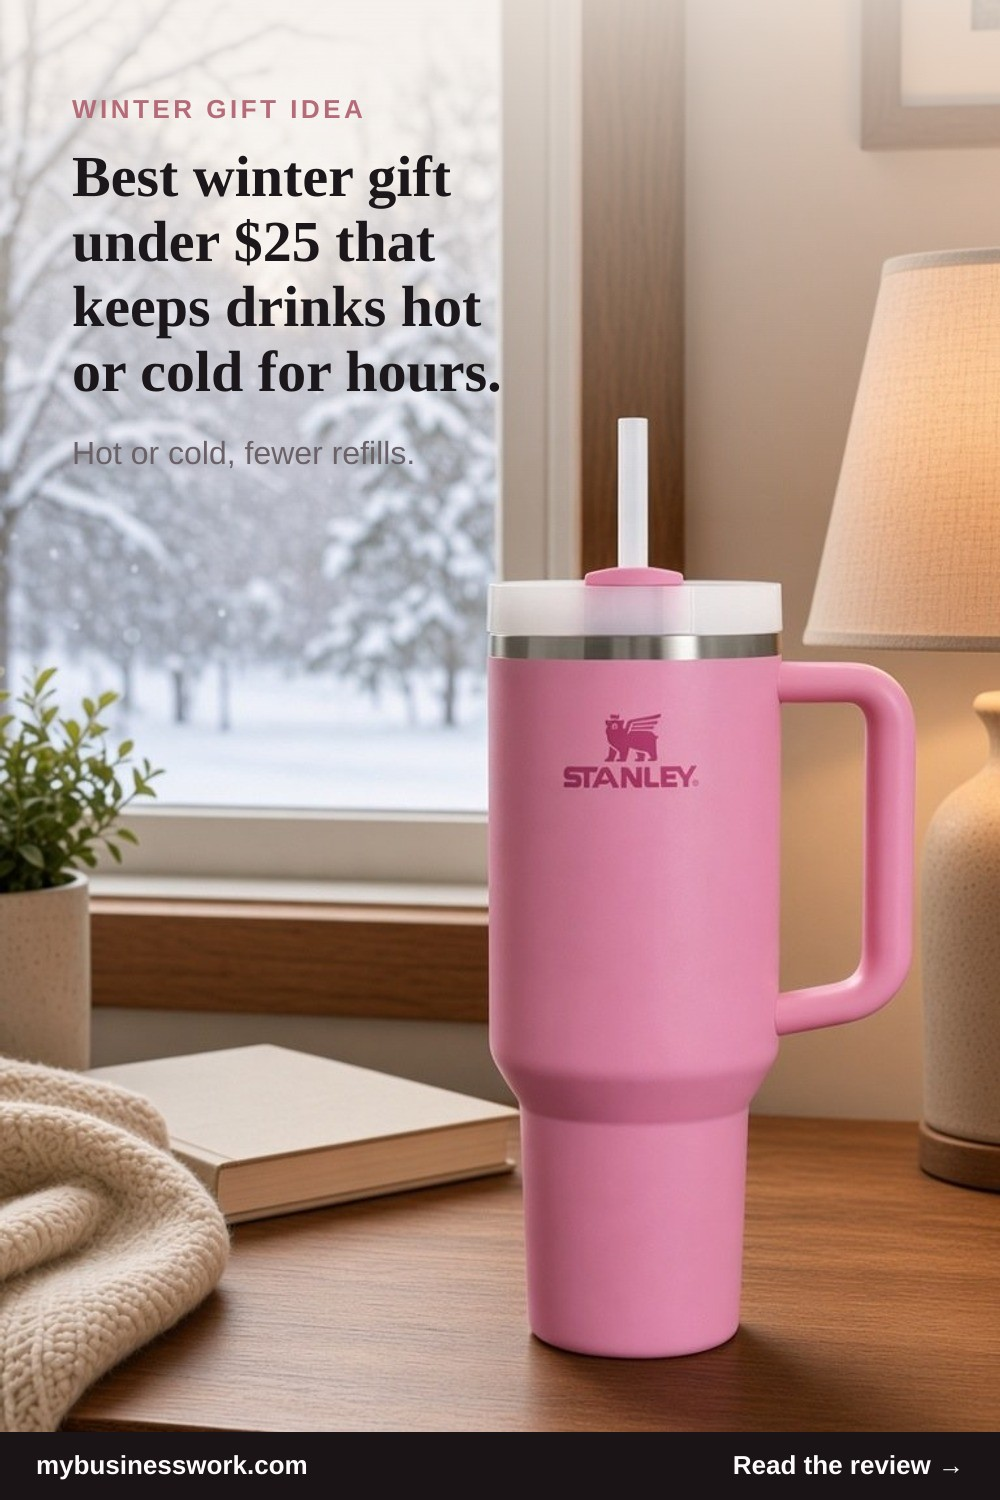
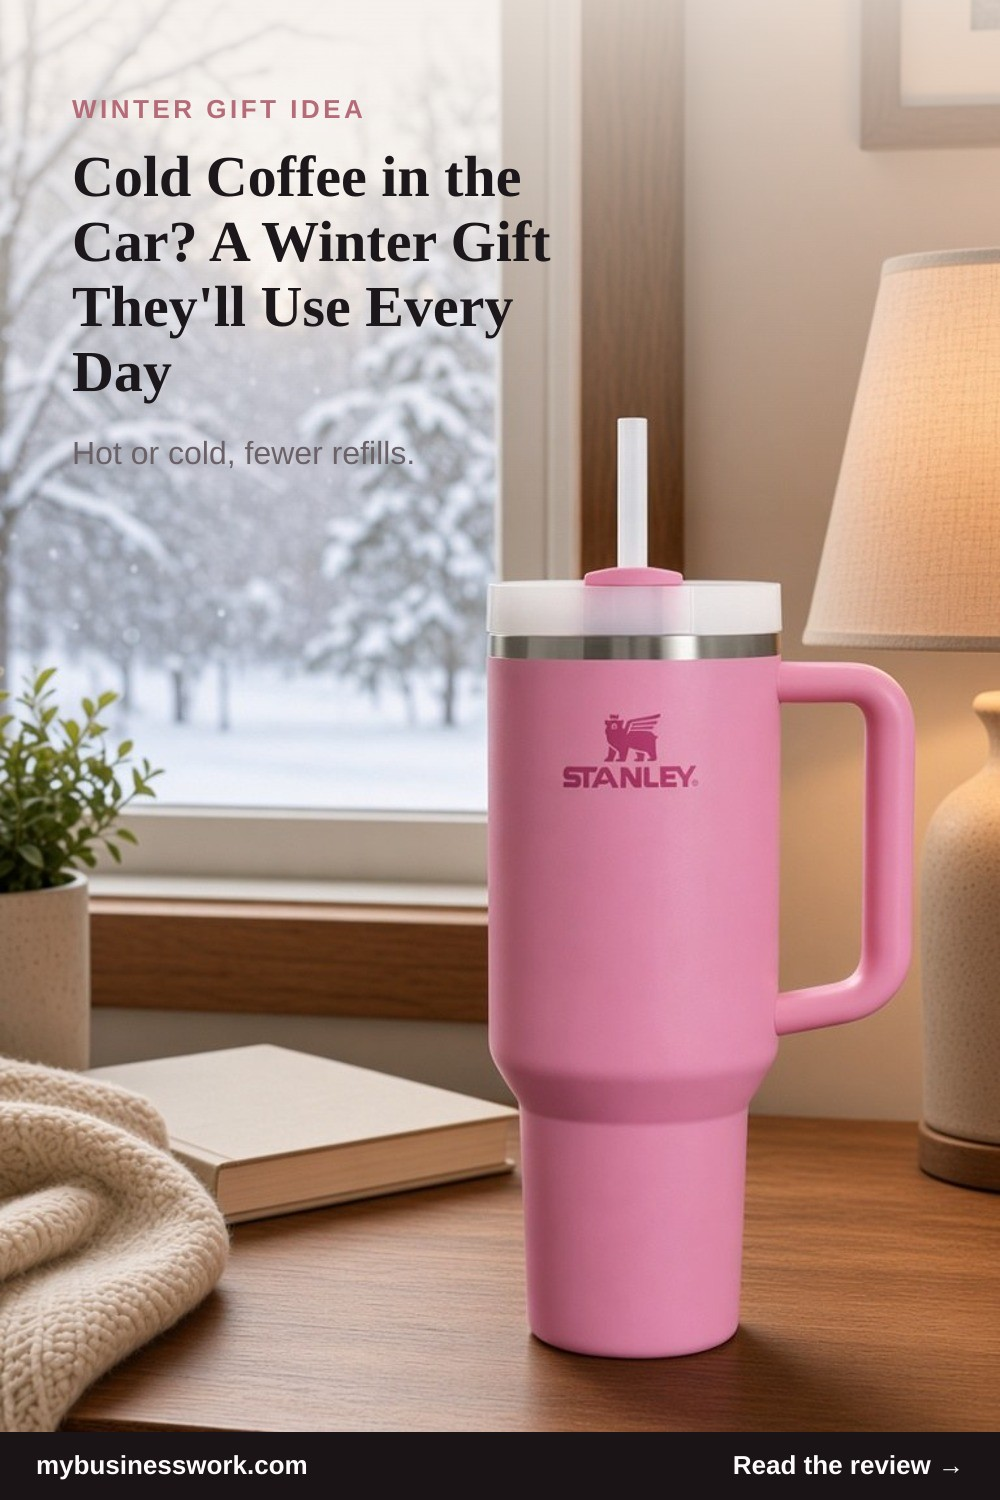
Separate buy and skip panels and ease reading
Give the two choices their own green and red panels, drop the hands-on disclaimer lines, and set review text to 17–18px with a 70-character line.

Changed region(s): [[0.062, 0.092, 0.558, 0.276]]

diff --git a/src/content/reviews/stanley-quencher-h2-0-review-gift-ideas-under-25-b0crmp3rqt.md b/src/content/reviews/stanley-quencher-h2-0-review-gift-ideas-under-25-b0crmp3rqt.md
@@ -1,6 +1,6 @@
 ---
-title: "Stanley Quencher H2.0 Review: Gift Ideas Under $25"
-description: "A 40 oz Peony Stanley cup for hot or cold drinks. See who should buy it, who should skip it, and what buyers mention."
+title: "Stanley Quencher H2.0 Review: A Winter Gift They'll Use Every Day"
+description: "A 40 oz Peony Stanley cup for hot or cold drinks. A winter gift for the car, the desk, and the couch."
 asin: "B0CRMP3RQT"
 brand: "STANLEY"
 category: "Kitchen"
@@ -8,7 +8,7 @@ affiliateUrl: "https://www.amazon.com/dp/B0CRMP3RQT?tag=dailyvirald06-20"
 ownImage: "/images/reviews/b0crmp3rqt/own.jpg"
 imageCaption: "Peony Stanley tumbler on a wood desk, snow outside the window, a warm lamp beside it."
 images: [{"src":"/images/reviews/b0crmp3rqt/car-cupholder.jpg","caption":"Peony Stanley tumbler in a car cup holder, snow on the trees outside.","alt":"Peony Stanley tumbler in a car cup holder, snow on the trees outside."},{"src":"/images/reviews/b0crmp3rqt/couch-warm.jpg","caption":"Peony Stanley tumbler on a side table beside a couch and a knit blanket.","alt":"Peony Stanley tumbler on a side table beside a couch and a knit blanket."}]
-hook: "Cold Coffee in the Car? A Winter Gift Under $25"
+hook: "Cold Coffee in the Car? A Winter Gift They'll Use Every Day"
 eyebrow: "Winter gift idea"
 subline: "Hot or cold, fewer refills."
 hookSupport: "You want one cup for the kitchen, the car, and the couch. This 40 oz tumbler is made to keep drinks hot or cold."
@@ -30,7 +30,7 @@ You pour hot coffee. You get in the car. It is lukewarm before you sit down.
 
 You want one cup for the kitchen, the car, and the couch. The <a href="https://www.amazon.com/dp/B0CRMP3RQT?tag=dailyvirald06-20" rel="nofollow sponsored noopener" target="_blank">Stanley Quencher H2.0</a> is a 40 oz tumbler in Peony pink. It has a handle, a straw, and a lid you can turn.
 
-The listing says the double walls keep drinks cold, iced, or hot for hours. This page did not time a drink. Check today's price before you call it a gift under $25.
+The listing says the double walls keep drinks cold, iced, or hot for hours. Check today's price on Amazon before you buy.
 
 ## What it does
 
@@ -62,9 +62,8 @@ It is a simple winter gift. A birthday, a housewarming, a teacher thank-you, or 
 
 ## Honest limits
 
-* "Under $25" only helps if today's price is still in that range.
 * Buyers on the listing often say it leaks when the cup tips. A closed slider is not a sealed bottle.
-* Buyers also mention a broken handle and a scratched matte coat. This page did not test those reports.
+* Buyers also mention a broken handle and a scratched matte coat.
 * Dishwasher and hand wash are both written on the same page. They disagree.
 * The two size blocks do not match.
 * Other colors and the 64 oz are different products.
@@ -72,13 +71,13 @@ It is a simple winter gift. A birthday, a housewarming, a teacher thank-you, or 
 
 ## FAQ
 
-### Is the Stanley Quencher H2.0 a good winter gift under $25?
+### Is the Stanley Quencher H2.0 a good everyday gift?
 
-It is a useful gift when you want one handled cup and no size to guess. Under $25 depends on today's price. Open the <a href="https://www.amazon.com/dp/B0CRMP3RQT?tag=dailyvirald06-20" rel="nofollow sponsored noopener" target="_blank">Stanley Quencher H2.0</a> page before you buy.
+It is a useful gift when you want one handled cup and no size to guess. Check today's price before you buy. Open the <a href="https://www.amazon.com/dp/B0CRMP3RQT?tag=dailyvirald06-20" rel="nofollow sponsored noopener" target="_blank">Stanley Quencher H2.0</a> page and see the live price.
 
 ### How long does it keep drinks cold or hot?
 
-The diagram says 11 hours cold and 48 hours iced. The bullets say hot for hours, with no hot-hour count. Those are Stanley's numbers. This page did not run a heat test.
+The diagram says 11 hours cold and 48 hours iced. The bullets say hot for hours, with no hot-hour count. Those are Stanley's numbers.
 
 ### Will the 40 oz Peony fit a car cup holder?
 

diff --git a/src/content/reviews/bedsure-heated-blanket-throw-review-b0bzr6ybhk.md b/src/content/reviews/bedsure-heated-blanket-throw-review-b0bzr6ybhk.md
@@ -26,13 +26,13 @@ createdAt: 2026-11-11T22:35:00+08:00
 
 The couch is cold. Heating the whole house feels like too much.
 
-The <a href="https://www.amazon.com/dp/B0BZR6YBHK?tag=dailyvirald06-20" rel="nofollow sponsored noopener" target="_blank">Bedsure heated throw</a> is a 50 by 60 inch blanket. This review is the grey one. It has a soft side and a fuzzy side. You plug it in for heat. This page did not sleep under it.
+The <a href="https://www.amazon.com/dp/B0BZR6YBHK?tag=dailyvirald06-20" rel="nofollow sponsored noopener" target="_blank">Bedsure heated throw</a> is a 50 by 60 inch blanket. This review is the grey one. It has a soft side and a fuzzy side. You plug it in for heat.
 
 ## What it does
 
 * **Heat on you.** Six levels. A controller. Timers at 1, 2, 4, 6, 8, or 10 hours. Bedsure says longer heating wires spread the warmth.
 
-* **Preheat.** The listing says you can preheat, then drop to a level you can stay with. Exact minutes depend on the room. This page did not time it.
+* **Preheat.** The listing says you can preheat, then drop to a level you can stay with. Exact minutes depend on the room.
 
 * **Two fabrics.** A flannel side and a sherpa side. Sherpa is the fuzzy side. GSM on the listing is just fabric weight. You can also use it unplugged as a normal throw.
 
@@ -62,7 +62,6 @@ Skip it if you need one blanket to cover a whole mattress. This is a throw.
 * 50 by 60 inches covers a person, not a bed.
 * You need an outlet and a place for the controller.
 * The 8-hour shutoff will stop a very long night. You restart it if you want more.
-* This page did not measure heat-up time.
 
 ## FAQ
 
@@ -72,7 +71,7 @@ The listing says machine care is fine. Disconnect the controller first. Read the
 
 ### How fast does it preheat?
 
-Bedsure says the preheat gets it toasty quickly. The room temperature changes that. This page did not time it.
+Bedsure says the preheat gets it toasty quickly. The room temperature changes that.
 
 ### Can I fall asleep with it on?
 

diff --git a/src/content/reviews/shark-flexstyle-next-gen-ioncurl-review-b0hcf2g9vq.md b/src/content/reviews/shark-flexstyle-next-gen-ioncurl-review-b0hcf2g9vq.md
@@ -26,13 +26,13 @@ createdAt: 2026-11-11T22:31:00+08:00
 
 Wet hair. A dryer in one hand. A curler waiting. The morning is already short.
 
-The <a href="https://www.amazon.com/dp/B0HCF2G9VQ?tag=dailyvirald06-20" rel="nofollow sponsored noopener" target="_blank">Shark FlexStyle IonCurl</a> is a dryer and a multi-styler. Shark says the airflow dries and curls without extreme heat. This model is the HD840. This page did not style hair with it.
+The <a href="https://www.amazon.com/dp/B0HCF2G9VQ?tag=dailyvirald06-20" rel="nofollow sponsored noopener" target="_blank">Shark FlexStyle IonCurl</a> is a dryer and a multi-styler. Shark says the airflow dries and curls without extreme heat. This model is the HD840.
 
 ## What it does
 
 * **Dry and style.** One base, several heads. Dry, smooth, add volume, or curl. Shark calls the curl wrap Coanda. That means the air pulls hair around the barrel.
 
-* **Ions.** Shark says ions help hair dry faster and look smoother, with less heat damage. That is their claim. This page did not test damage.
+* **Ions.** Shark says ions help hair dry faster and look smoother, with less heat damage. That is their claim.
 
 * **Buttons.** Double-tap AirSet to pause the air. Hold it for a cool shot. Scalp Shield drops to a cooler setting. Shark says that protects the scalp from high heat.
 
@@ -57,7 +57,7 @@ Skip it if a basic dryer is all you use. The extra heads will sit in a drawer.
 * You need practice. The first curls may look uneven.
 * High speed is noisy.
 * It is a full system, not one basic dryer. Check today's price.
-* "No heat damage" is Shark's line, not a result from this page.
+* "No heat damage" is Shark's line
 
 ## FAQ
 

diff --git a/src/content/reviews/amazon-kids-kindle-colorsoft-16gb-review-b0gv5rhy69.md b/src/content/reviews/amazon-kids-kindle-colorsoft-16gb-review-b0gv5rhy69.md
@@ -35,7 +35,7 @@ createdAt: 2026-11-11T20:48:07+08:00
 
 The book bag is heavy. Outside, a bright tablet is hard to read. And the games are right there.
 
-The <a href="https://www.amazon.com/dp/B0GV5RHY69?tag=dailyvirald06-20" rel="nofollow sponsored noopener" target="_blank">Amazon Kids Kindle Colorsoft</a> is a 7-inch color reader for ages 6 to 12. The bundle includes a cover and one year of Kids+. This page did not hand it to a child.
+The <a href="https://www.amazon.com/dp/B0GV5RHY69?tag=dailyvirald06-20" rel="nofollow sponsored noopener" target="_blank">Amazon Kids Kindle Colorsoft</a> is a 7-inch color reader for ages 6 to 12. The bundle includes a cover and one year of Kids+.
 
 ## What it does
 
@@ -47,7 +47,7 @@ The <a href="https://www.amazon.com/dp/B0GV5RHY69?tag=dailyvirald06-20" rel="nof
 
 * **Light.** You can shift the front light from white to warm amber.
 
-* **Water.** Amazon says it is waterproof for the pool, beach, or bath. Follow their care notes. This page did not dunk it.
+* **Water.** Amazon says it is waterproof for the pool, beach, or bath. Follow their care notes.
 
 * **Battery.** Amazon says up to 8 weeks. That is their claim, and it depends on use. 16GB holds a lot of text. Color comics take more space than plain novels.
 
@@ -71,7 +71,7 @@ Skip it if your child wants a tablet full of apps. Skip it if you will not watch
 * Kids+ renews unless you cancel. Know the date.
 * 16GB goes faster if you download lots of color comics.
 * The age range on the listing is 6 to 12.
-* Battery weeks and glare claims are Amazon's, not a test from this page.
+* Battery weeks and glare claims are Amazon's
 
 ## FAQ
 

diff --git a/src/content/reviews/hellobaby-hb6550-no-wifi-baby-monitor-review-b09gm8jzm9.md b/src/content/reviews/hellobaby-hb6550-no-wifi-baby-monitor-review-b09gm8jzm9.md
@@ -35,7 +35,7 @@ createdAt: 2026-11-11T13:09:13+08:00
 
 Nap time. You do not want to load an app or reboot the router.
 
-The <a href="https://www.amazon.com/dp/B09GM8JZM9?tag=dailyvirald06-20" rel="nofollow sponsored noopener" target="_blank">HelloBaby HB6550</a> is a video baby monitor with no Wi-Fi. A 5-inch parent screen talks straight to the camera. This page did not set one up in a nursery.
+The <a href="https://www.amazon.com/dp/B09GM8JZM9?tag=dailyvirald06-20" rel="nofollow sponsored noopener" target="_blank">HelloBaby HB6550</a> is a video baby monitor with no Wi-Fi. A 5-inch parent screen talks straight to the camera.
 
 ## What it does
 
@@ -45,7 +45,7 @@ The <a href="https://www.amazon.com/dp/B09GM8JZM9?tag=dailyvirald06-20" rel="nof
 
 * **Night and talk.** Infrared night vision. Two-way audio. A room-temperature alert. The listing also includes sound-level lights.
 
-* **Range.** About 1,000 feet in open space, per the listing. Walls cut that down. This page did not measure it.
+* **Range.** About 1,000 feet in open space, per the listing. Walls cut that down.
 
 * **Power.** The camera stays plugged in. The parent unit has a battery so you can carry the screen. You can add cameras later, up to four, per the listing.
 
@@ -70,7 +70,6 @@ Skip it if you need to check the baby from the office.
 * No phone viewing when you leave.
 * Walls reduce the 1,000-foot claim.
 * The camera needs constant power.
-* This page did not test range or night video.
 
 ## FAQ
 

diff --git a/src/content/reviews/dreo-space-heater-review-gift-ideas-under-50-b0c6fckqml.md b/src/content/reviews/dreo-space-heater-review-gift-ideas-under-50-b0c6fckqml.md
@@ -26,7 +26,7 @@ createdAt: 2026-11-18T13:30:00+08:00
 
 The house is warm. Your bedroom is not. You do not want to heat every room.
 
-The <a href="https://www.amazon.com/dp/B0C6FCKQML?tag=dailyvirald06-20" rel="nofollow sponsored noopener" target="_blank">Dreo space heater</a> in this review is the Gold HSH006. It is a corded 1500W ceramic tower. Dreo lists it for about 200 square feet. This page did not run it in a room.
+The <a href="https://www.amazon.com/dp/B0C6FCKQML?tag=dailyvirald06-20" rel="nofollow sponsored noopener" target="_blank">Dreo space heater</a> in this review is the Gold HSH006. It is a corded 1500W ceramic tower. Dreo lists it for about 200 square feet.
 
 ## What it does
 
@@ -36,7 +36,7 @@ The <a href="https://www.amazon.com/dp/B0C6FCKQML?tag=dailyvirald06-20" rel="nof
 
 * **Modes on the listing.** Power heat, ECO, and Fan Only. There is also a 12-hour timer, mute, a child lock, and a memory function. If a badge says "5 Mode," read the live page so you know what those modes are.
 
-* **Quiet, per Dreo.** The listing says 34 dB. That is their number for a bedroom or a desk. This page did not measure it.
+* **Quiet, per Dreo.** The listing says 34 dB. That is their number for a bedroom or a desk.
 
 * **Safety lines.** Tip-over shutoff, overheat protection, a safety plug, and flame-retardant material. ETL certified. Indoor only. Do not use an extension cord or a power strip. Do not set it on a bed or a soft chair where the vents get blocked.
 

diff --git a/src/content/reviews/bedsure-satin-pillowcases-queen-set-review-b0bsnhvw5q.md b/src/content/reviews/bedsure-satin-pillowcases-queen-set-review-b0bsnhvw5q.md
@@ -26,11 +26,11 @@ createdAt: "2026-11-17T08:30:00+08:00"
 
 You wake up. Your hair is a cloud. Your cheek has a crease from the pillow.
 
-The <a href="https://www.amazon.com/dp/B0BSNHVW5Q?tag=dailyvirald06-20" rel="nofollow sponsored noopener" target="_blank">Bedsure satin pillowcases</a> are a queen set of two. They are 100% polyester with a smooth, silk-like face. They are not silk. This page did not sleep on them.
+The <a href="https://www.amazon.com/dp/B0BSNHVW5Q?tag=dailyvirald06-20" rel="nofollow sponsored noopener" target="_blank">Bedsure satin pillowcases</a> are a queen set of two. They are 100% polyester with a smooth, silk-like face. They are not silk.
 
 ## What it does
 
-* **Less rub.** The listing says the smooth face cuts friction. That can help frizz and breakage on curly or delicate hair. Results vary. This page did not measure hair.
+* **Less rub.** The listing says the smooth face cuts friction. That can help frizz and breakage on curly or delicate hair. Results vary.
 
 * **Skin.** Bedsure says the smooth surface lowers the chance of sleep marks. It is not a wrinkle treatment.
 
@@ -61,7 +61,7 @@ Skip it if you want real silk. Skip it if you thought pillows were in the box.
 * Polyester can sleep warmer or cooler than you like.
 * Gentle washing only.
 * Cases only. No pillow inserts.
-* Hair and skin lines are the brand's claim, not a test from this page.
+* Hair and skin lines are the brand's claim
 
 ## FAQ
 

diff --git a/src/content/reviews/tiptop-home-handheld-vacuum-sealer-review-b0hf4xhl1r.md b/src/content/reviews/tiptop-home-handheld-vacuum-sealer-review-b0hf4xhl1r.md
@@ -35,7 +35,7 @@ createdAt: 2026-11-11T11:22:50+08:00
 
 Monday's dinner is still in the fridge on Thursday. The bag is puffy. The smell is not great.
 
-The <a href="https://www.amazon.com/dp/B0HF4XHL1R?tag=dailyvirald06-20" rel="nofollow sponsored noopener" target="_blank">Tiptop Home handheld vacuum sealer</a> is a small cordless tool. The listing says it pulls at 60 kPa and seals in about 5 seconds. kPa is just a measure of suction. This page did not seal a bag with it.
+The <a href="https://www.amazon.com/dp/B0HF4XHL1R?tag=dailyvirald06-20" rel="nofollow sponsored noopener" target="_blank">Tiptop Home handheld vacuum sealer</a> is a small cordless tool. The listing says it pulls at 60 kPa and seals in about 5 seconds. kPa is just a measure of suction.
 
 ## What it does
 
@@ -68,13 +68,13 @@ Skip it if you want to seal grocery zip bags. This tool wants its own bags.
 * You must charge it or it is a brick.
 * The bags need a real wash between uses.
 * It is for valve bags, not every bag in the drawer.
-* 60 kPa and the 5-second line are Tiptop's claims. This page did not measure them.
+* 60 kPa and the 5-second line are Tiptop's claims.
 
 ## FAQ
 
 ### What does 60 kPa mean?
 
-It is a suction number. Higher means a stronger pull. Tiptop says this tool hits 60 kPa. This page did not test the pull.
+It is a suction number. Higher means a stronger pull. Tiptop says this tool hits 60 kPa.
 
 ### Can I use any plastic bag?
 

diff --git a/src/content/reviews/ninja-blast-portable-blender-review-quick-smoothies-anywhere-b0c2ff4jd1.md b/src/content/reviews/ninja-blast-portable-blender-review-quick-smoothies-anywhere-b0c2ff4jd1.md
@@ -26,7 +26,7 @@ createdAt: "2026-11-16T11:00:00+08:00"
 
 You are late. Breakfast is still fruit in the fridge. A big blender means a cord, a pour, and a wash.
 
-The <a href="https://www.amazon.com/dp/B0C2FF4JD1?tag=dailyvirald06-20" rel="nofollow sponsored noopener" target="_blank">Ninja Blast</a> is a cordless blender with an 18 oz cup. You blend in the cup, then drink from it. This page covers the black BC151BK. This page did not blend a drink in it.
+The <a href="https://www.amazon.com/dp/B0C2FF4JD1?tag=dailyvirald06-20" rel="nofollow sponsored noopener" target="_blank">Ninja Blast</a> is a cordless blender with an 18 oz cup. You blend in the cup, then drink from it. This page covers the black BC151BK.
 
 ## What it does
 
@@ -60,14 +60,14 @@ It is one serving. It is not a pitcher for a family breakfast.
 
 * 18 oz is one person, not a crowd.
 * You have to keep the battery charged.
-* Very thick mixes need enough liquid. This page did not test that limit.
+* Very thick mixes need enough liquid.
 * Ninja's "perfectly smooth" line is their claim.
 
 ## FAQ
 
 ### Can it crush ice?
 
-Ninja says the steel blades and ribbed cup can blast ice and frozen fruit. Use enough liquid. This page did not run that test.
+Ninja says the steel blades and ribbed cup can blast ice and frozen fruit. Use enough liquid.
 
 ### How do I clean it?
 

diff --git a/src/content/reviews/ninja-air-fryer-pro-5-qt-review-save-time-on-meals-b0h87wv6n4.md b/src/content/reviews/ninja-air-fryer-pro-5-qt-review-save-time-on-meals-b0h87wv6n4.md
@@ -28,7 +28,7 @@ You get home late. The oven is cold. Nobody wants to stand over a pan.
 
 The <a href="https://www.amazon.com/dp/B0H87WV6N4?tag=dailyvirald06-20" rel="nofollow sponsored noopener" target="_blank">Ninja Air Fryer Pro 5 Qt</a> blows 400°F air around the food. Ninja says that makes food hot and crispy with little or no oil. This color is Bone and Champagne. It is an Amazon exclusive finish.
 
-It will not cook every dish. It is built for frozen food, chicken, vegetables, and quick sides. This page did not cook in it.
+It will not cook every dish. It is built for frozen food, chicken, vegetables, and quick sides.
 
 ## What it does
 
@@ -38,7 +38,7 @@ It will not cook every dish. It is built for frozen food, chicken, vegetables, a
 
 * **A 5-quart basket.** Ninja says it holds up to 4 pounds of fries or 5 pounds of chicken wings. There is a crisper plate inside.
 
-* **Less oil.** Ninja says you can use up to 75% less fat than deep-fried fries. They tested that against hand-cut fries fried in oil. It is their test, not ours.
+* **Less oil.** Ninja says you can use up to 75% less fat than deep-fried fries. They tested that against hand-cut fries fried in oil.
 
 * **A smaller footprint.** Ninja says this shape saves counter space without shrinking the basket. Still measure your counter.
 

diff --git a/src/content/reviews/levoit-top-fill-humidifier-review-easy-bedroom-care-b0c2c9nhzw.md b/src/content/reviews/levoit-top-fill-humidifier-review-easy-bedroom-care-b0c2c9nhzw.md
@@ -26,7 +26,7 @@ createdAt: 2026-11-11T22:33:00+08:00
 
 The old tank is heavy. You flip it. Water hits the nightstand.
 
-The <a href="https://www.amazon.com/dp/B0C2C9NHZW?tag=dailyvirald06-20" rel="nofollow sponsored noopener" target="_blank">Levoit top-fill humidifier</a> holds 2.5 liters. You lift a cover and pour. Levoit says low mode can run up to 25 hours. This page did not run it overnight.
+The <a href="https://www.amazon.com/dp/B0C2C9NHZW?tag=dailyvirald06-20" rel="nofollow sponsored noopener" target="_blank">Levoit top-fill humidifier</a> holds 2.5 liters. You lift a cover and pour. Levoit says low mode can run up to 25 hours.
 
 ## What it does
 
@@ -34,7 +34,7 @@ The <a href="https://www.amazon.com/dp/B0C2C9NHZW?tag=dailyvirald06-20" rel="nof
 
 * **Easier to wipe.** The opening is wide. Parts come off so you are not scrubbing a hidden corner. You still need to clean it. Minerals build up.
 
-* **Night mode.** Levoit lists the noise at 25 dB on low, with the lights off. That number is theirs. This page did not measure it.
+* **Night mode.** Levoit lists the noise at 25 dB on low, with the lights off. That number is theirs.
 
 * **One knob.** You set the mist. The nozzle turns 360 degrees so you can aim it.
 

diff --git a/src/content/reviews/ninja-ig651-foodi-smart-xl-pro-7-in-1-grill-griddle-b09b82lj21.md b/src/content/reviews/ninja-ig651-foodi-smart-xl-pro-7-in-1-grill-griddle-b09b82lj21.md
@@ -26,7 +26,7 @@ createdAt: "2026-11-16T10:45:00+08:00"
 
 Dinner needs a grill pan, a flat pan, and then the oven. That is three things to wash.
 
-The <a href="https://www.amazon.com/dp/B09B82LJ21?tag=dailyvirald06-20" rel="nofollow sponsored noopener" target="_blank">Ninja Foodi Smart XL Pro</a> is an indoor grill, a 12-inch griddle, and an air fryer. Ninja says the grill grate can hit 500°F. This page did not cook on it.
+The <a href="https://www.amazon.com/dp/B09B82LJ21?tag=dailyvirald06-20" rel="nofollow sponsored noopener" target="_blank">Ninja Foodi Smart XL Pro</a> is an indoor grill, a 12-inch griddle, and an air fryer. Ninja says the grill grate can hit 500°F.
 
 It is a big machine. Read the size before you clear a spot.
 
@@ -77,7 +77,7 @@ No. You swap one plate for the other. One surface at a time.
 
 ### How does the smoke control work?
 
-Ninja pairs a controlled grate, a splatter shield, and a cool-air zone. They also point you to their grilling tips. It is their system, not a test from this page.
+Ninja pairs a controlled grate, a splatter shield, and a cool-air zone. They also point you to their grilling tips. It is their system
 
 ### Are the plates dishwasher safe?
 
